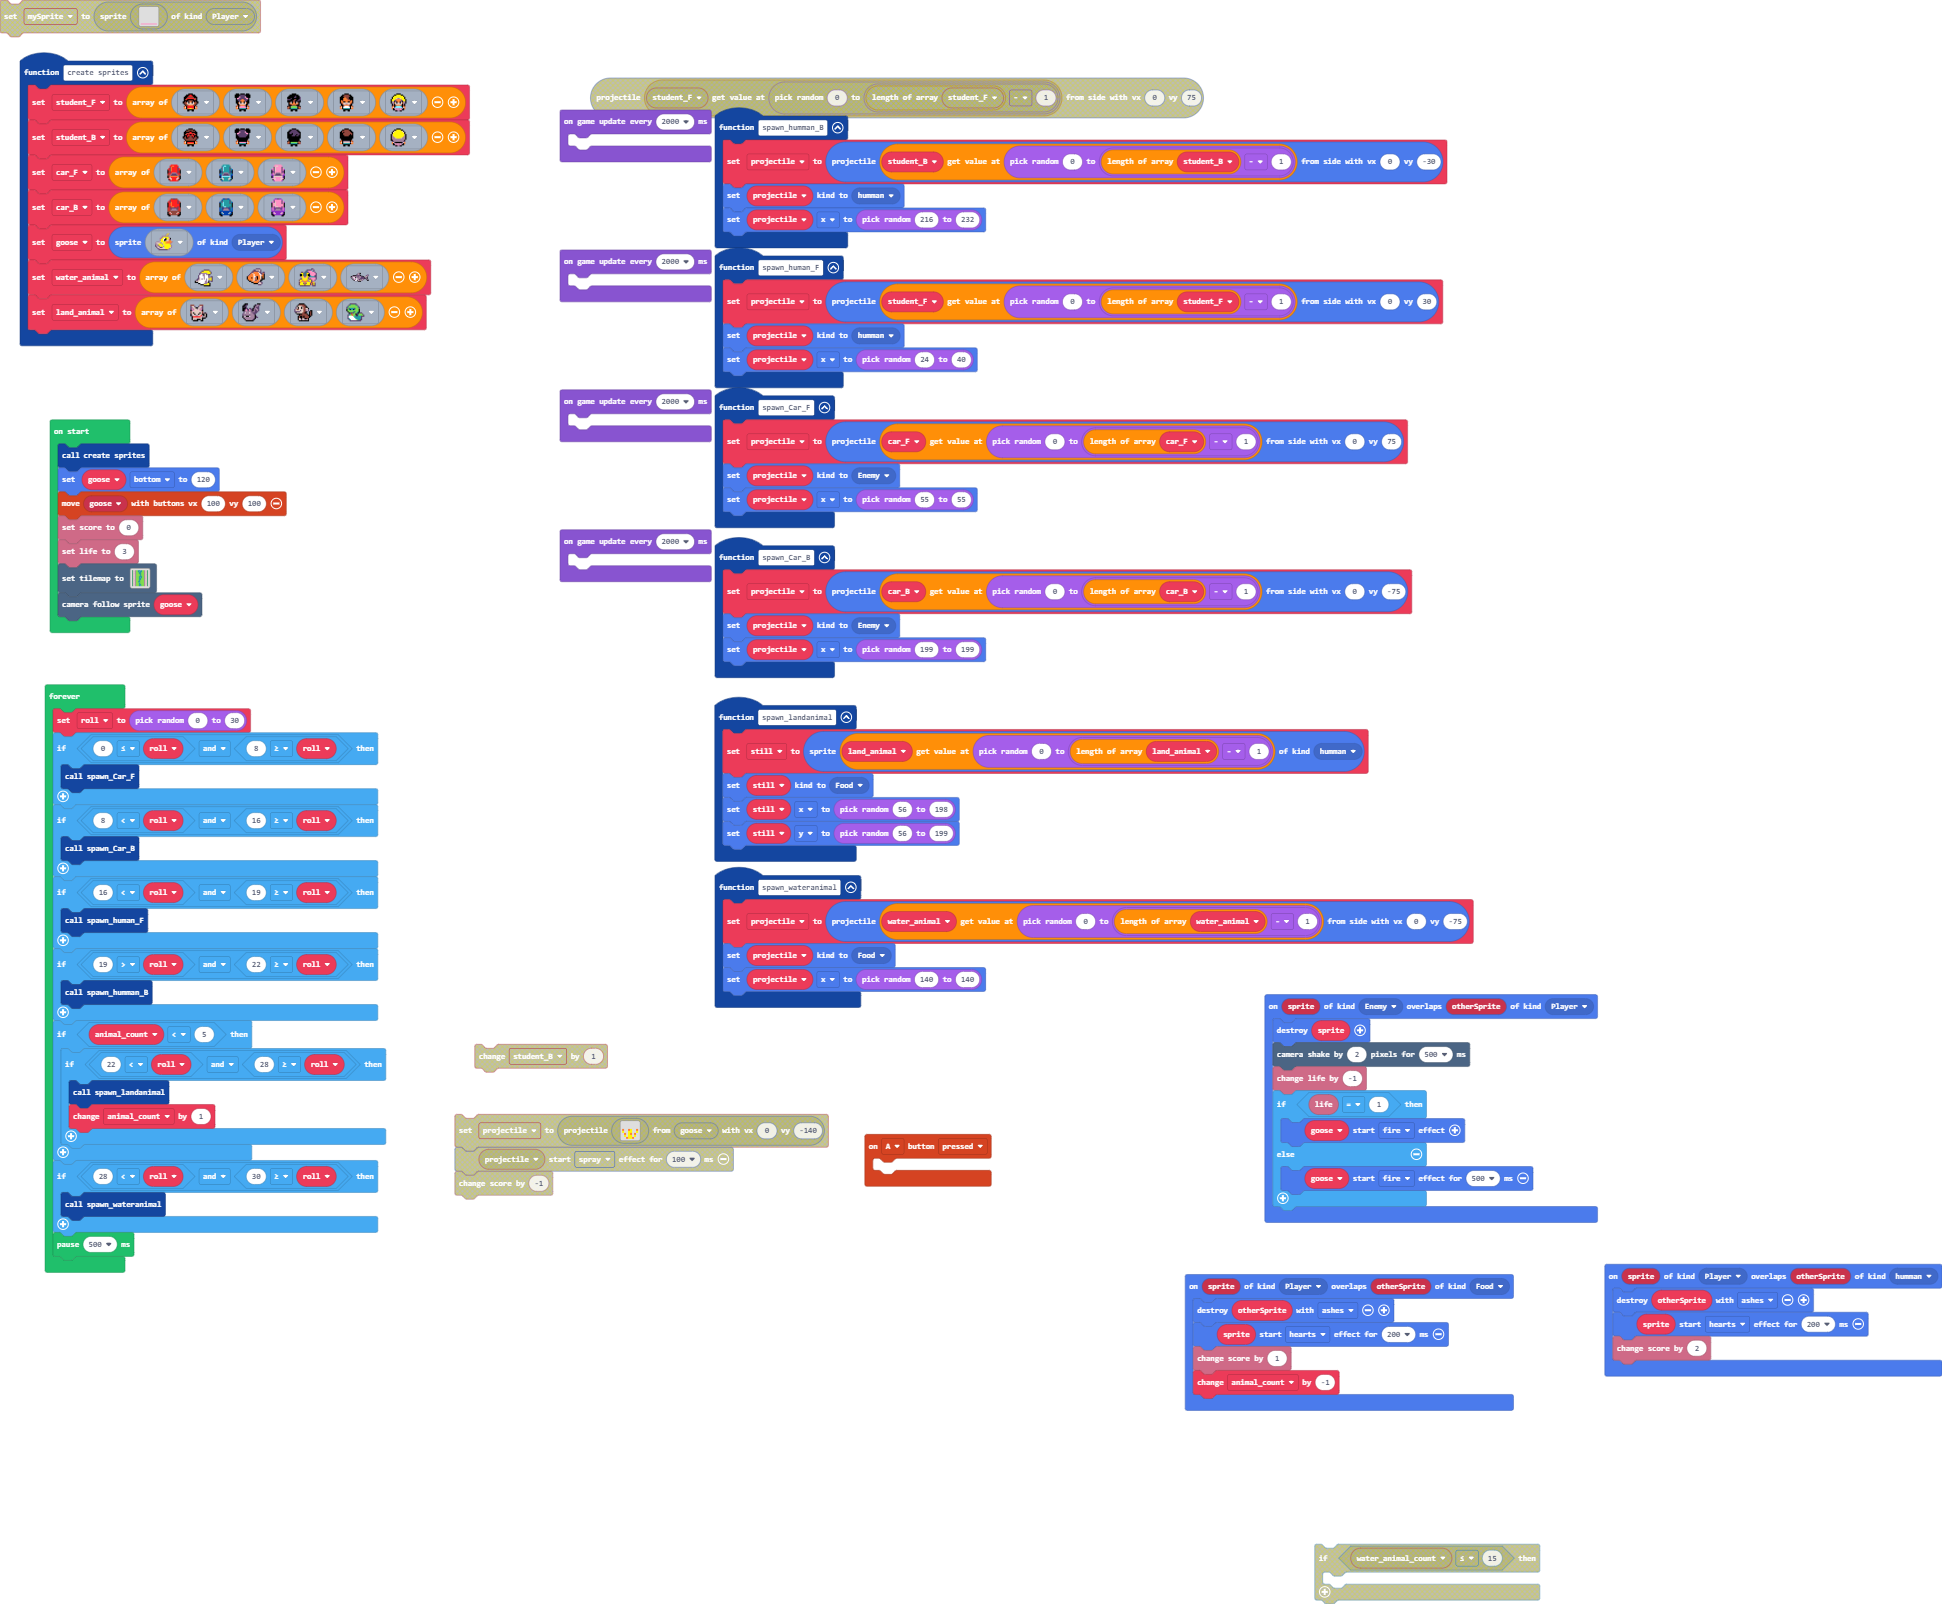
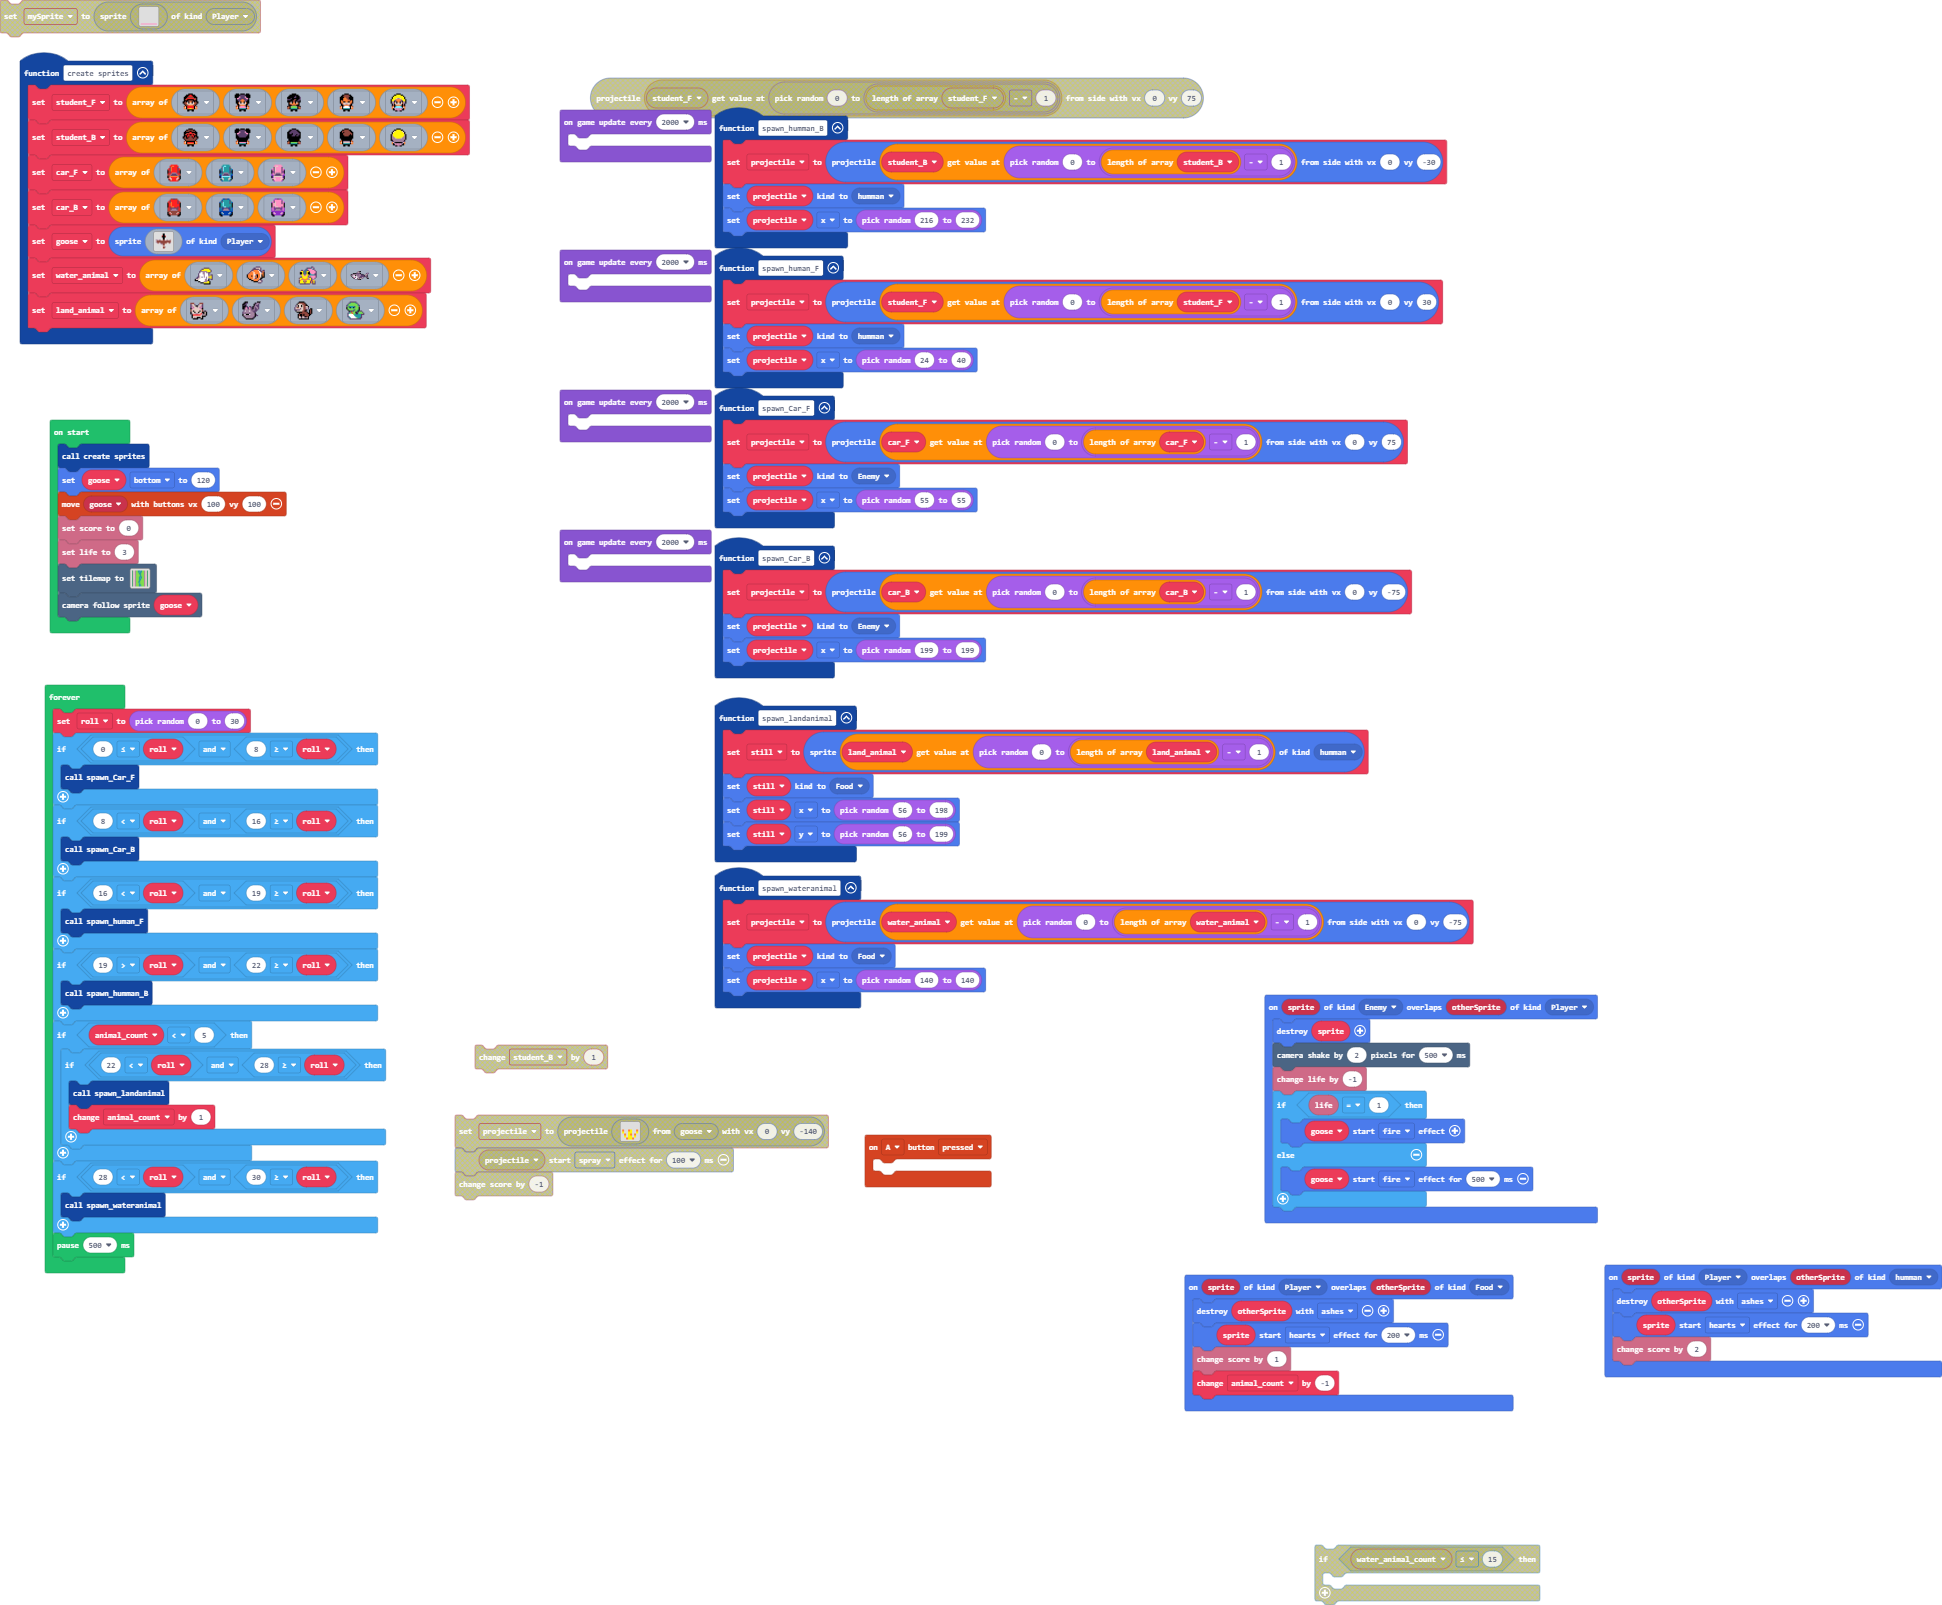
Update pxt.json, main.blocks, main.ts

diff --git a/main.ts b/main.ts
@@ -16,7 +16,24 @@ function create_sprites () {
     student_B = [sprites.castle.heroWalkBack1, sprites.builtin.villager1WalkBack1, sprites.builtin.villager2WalkBack1, sprites.builtin.villager3WalkBack1, sprites.builtin.villager4WalkBack1]
     car_F = [sprites.vehicle.carRedFront, sprites.vehicle.carBlueFront, sprites.vehicle.carPinkFront]
     car_B = [sprites.vehicle.carRedBack, sprites.vehicle.carBlueBack, sprites.vehicle.carPinkBack]
-    goose = sprites.create(sprites.duck.duck6, SpriteKind.Player)
+    goose = sprites.create(img`
+        . . . . . . . f f . . . . . . . 
+        . . . . . . . f f . . . . . . . 
+        . . . . . . 2 f f 2 . . . . . . 
+        . . . . . . f f f f . . . . . . 
+        . . . . . . 1 f f 1 . . . . . . 
+        . . . . . . . f f . . . . . . . 
+        b b d b b d 1 e e 1 d b d d b d 
+        d e e e e e e e e e e e e e e d 
+        b e e e e e e e e e e e e e e d 
+        . b e d b e e e e e e d d e b . 
+        . . d . . b b e e d d . . d . . 
+        . . . . . . . e e . . . . . . . 
+        . . . . . . . d d . . . . . . . 
+        . . . . . . 1 e e b . . . . . . 
+        . . . . . . 1 e e d . . . . . . 
+        . . . . . . . . . . . . . . . . 
+        `, SpriteKind.Player)
     water_animal = [sprites.builtin.angelFish1, sprites.builtin.clownFish2, sprites.builtin.hermitCrabAwaken5, sprites.builtin.shark1]
     land_animal = [sprites.builtin.cat1, sprites.builtin.forestBat0, sprites.builtin.forestMonkey0, sprites.builtin.forestSnake1]
 }
